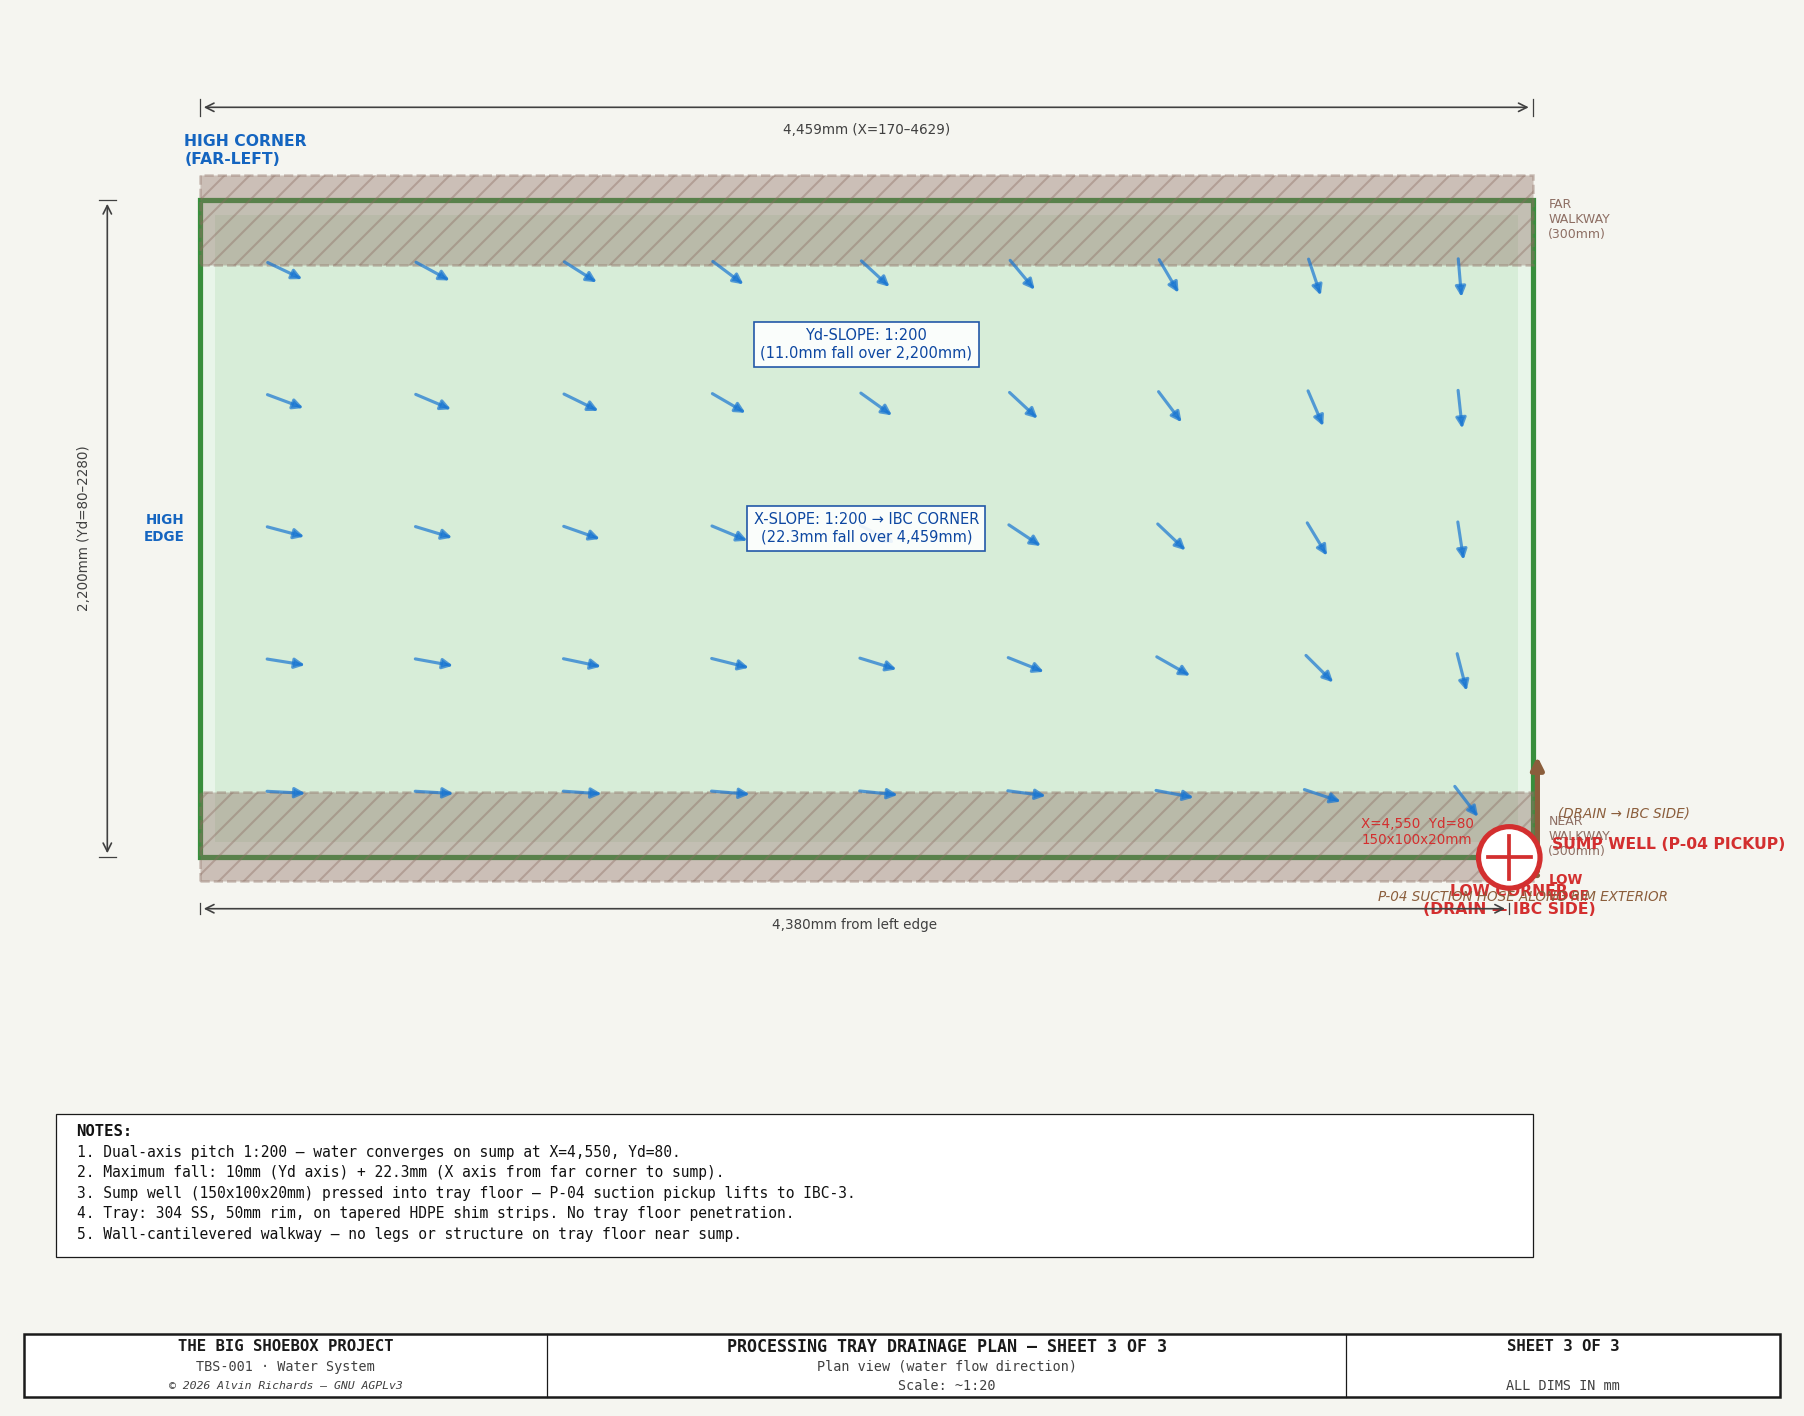
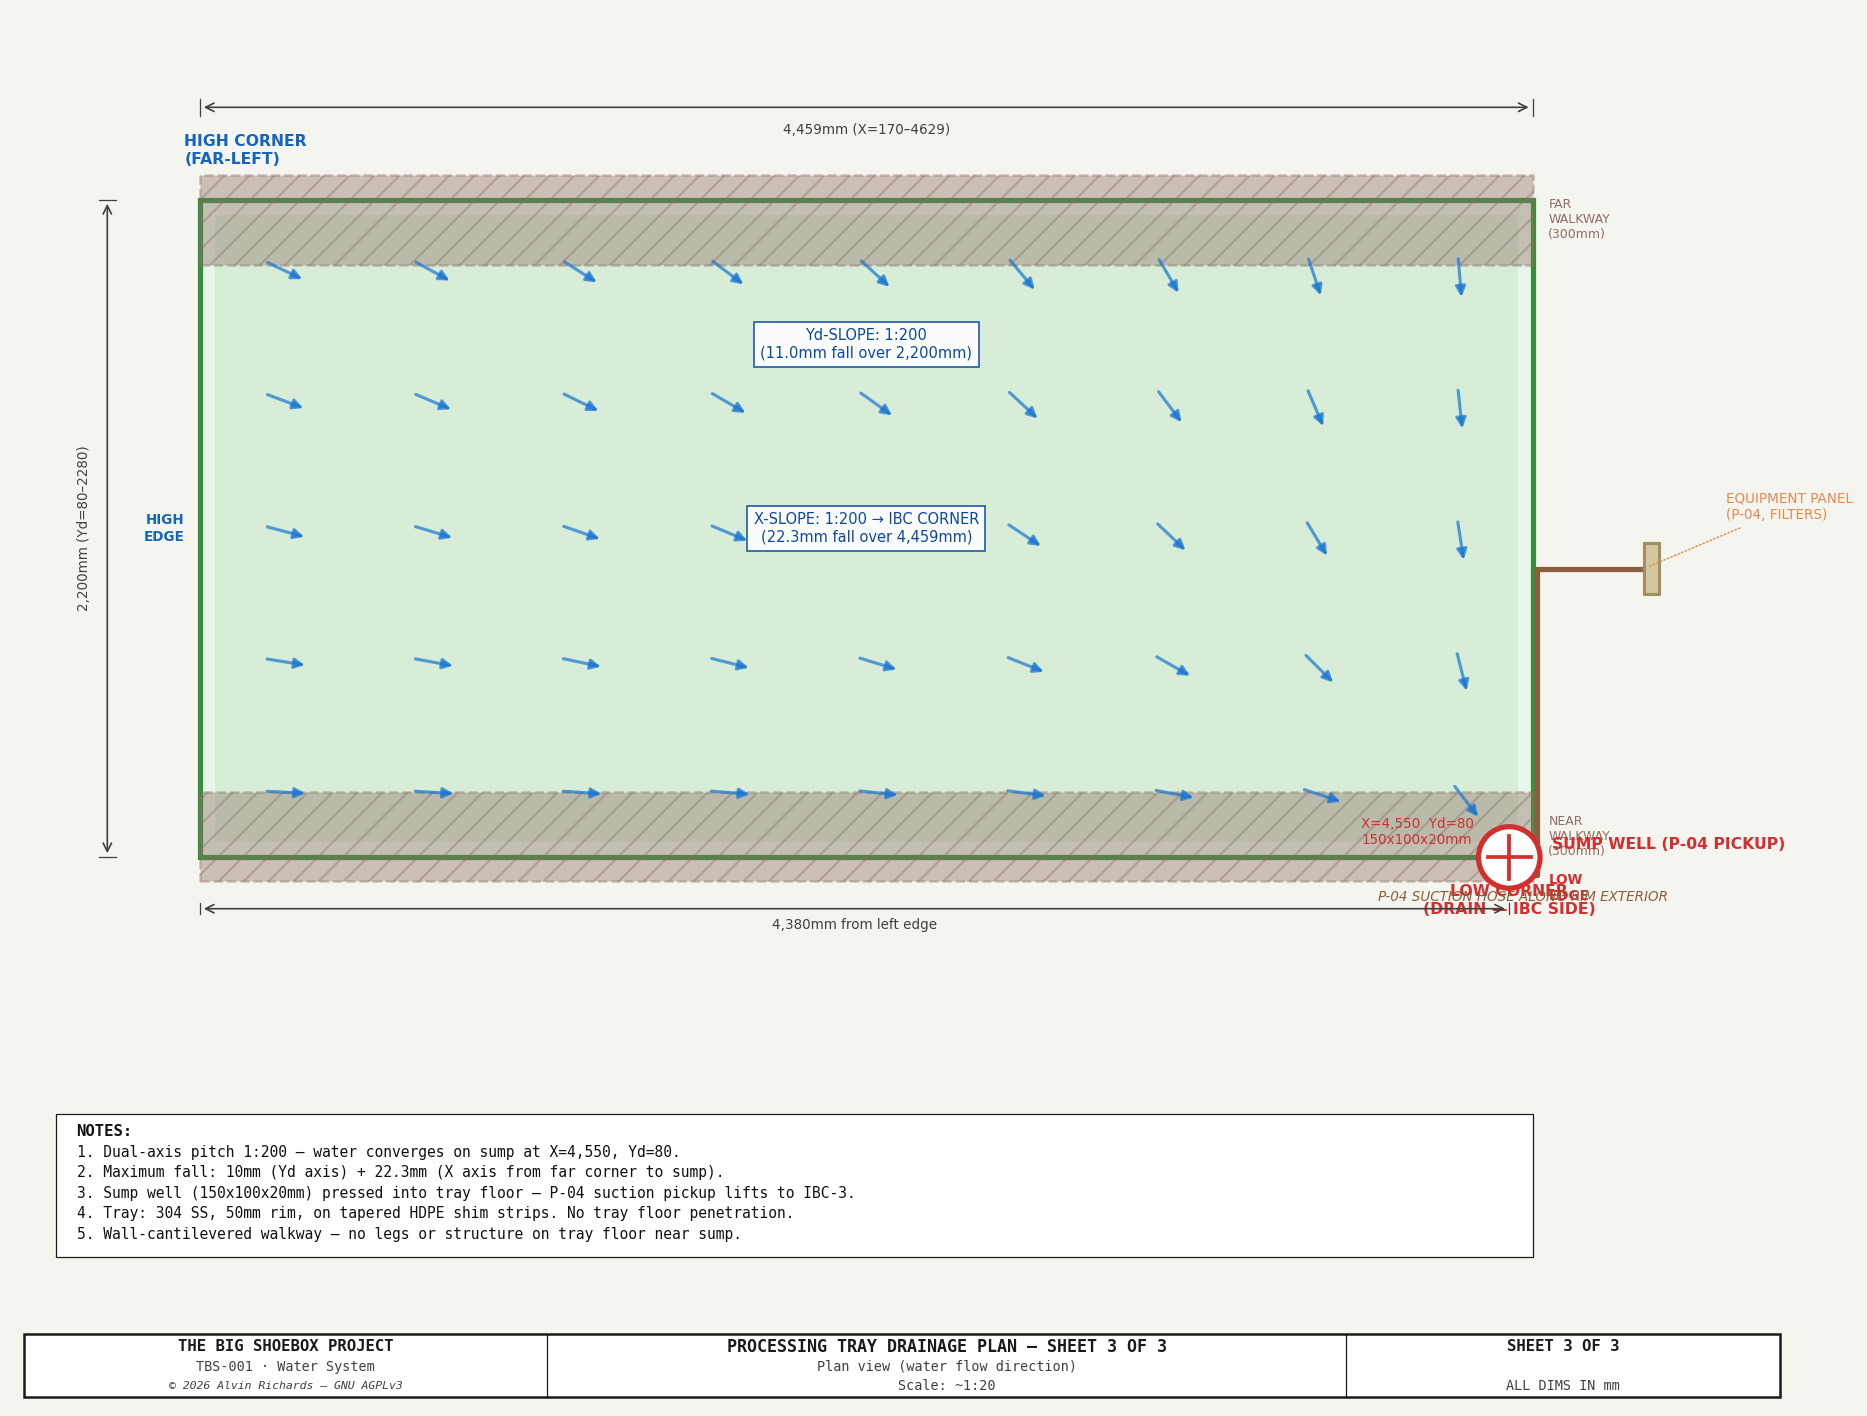
Water system sheet 3: extend sump pipe north and right into equipment panel

diff --git a/generate_water_system.py b/generate_water_system.py
@@ -945,16 +945,26 @@ corner_dx = s3x(corner_local_x)
 ax3.plot([drain_dx, corner_dx], [pipe_rim_dy, pipe_rim_dy],
          color=C_BROWN, lw=2.5, solid_capstyle="round", zorder=5)
 
-# Turn north toward equipment panel (arrow indicates continuation)
-ax3.annotate("", xy=(corner_dx, pipe_rim_dy + 1.2),
-             xytext=(corner_dx, pipe_rim_dy),
-             arrowprops=dict(arrowstyle="-|>", color=C_BROWN, lw=2.5,
-                             mutation_scale=12), zorder=5)
+# North from tray corner to corridor level
+panel_local_yd = CORRIDOR_YD_NEAR - PROC_TRAY_YD_NEAR   # 966mm
+panel_local_x = EQPANEL_X - PROC_TRAY_X_L               # 4830mm
+panel_dy = s3y(panel_local_yd)
+panel_dx = s3x(panel_local_x)
+ax3.plot([corner_dx, corner_dx], [pipe_rim_dy, panel_dy],
+         color=C_BROWN, lw=2.5, solid_capstyle="round", zorder=5)
 
-ax3.text(corner_dx + 0.2, pipe_rim_dy + 0.6,
-         "(DRAIN → IBC SIDE)",
-         ha="left", va="center", fontsize=6.5, color=C_BROWN,
-         style="italic", zorder=8)
+# Right into equipment panel
+ax3.plot([corner_dx, panel_dx], [panel_dy, panel_dy],
+         color=C_BROWN, lw=2.5, solid_capstyle="round", zorder=5)
+
+# Equipment panel symbol (small rectangle at pipe terminus)
+ax3.add_patch(plt.Rectangle((panel_dx, panel_dy - 0.25),
+              0.15, 0.5,
+              fc="#D4C8A0", ec="#A09060", lw=1.5, zorder=6))
+
+leader(ax3, panel_dx, panel_dy,
+       panel_dx + 0.8, panel_dy + 0.6,
+       "EQUIPMENT PANEL\n(P-04, FILTERS)", fs=6.5, color=C_PUMP)
 
 ax3.text((drain_dx + corner_dx) / 2, pipe_rim_dy - 0.25,
          "P-04 SUCTION HOSE ALONG RIM EXTERIOR",
